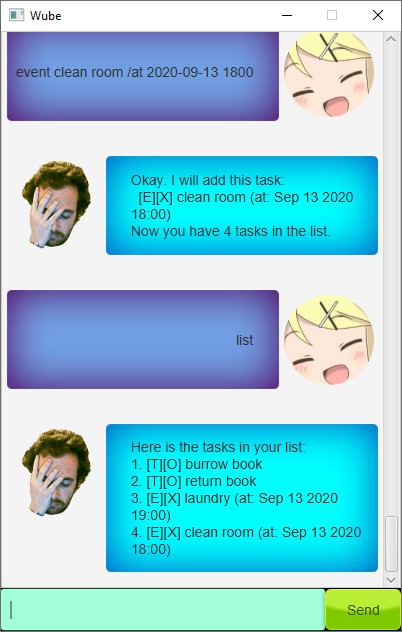
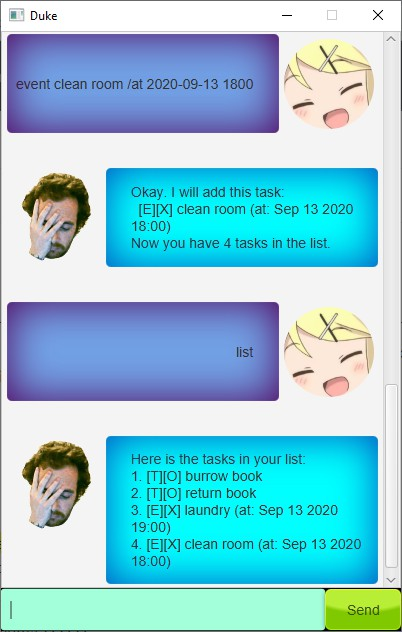
Fix some text bugs and change Ui.png

diff --git a/src/main/java/duke/Main.java b/src/main/java/duke/Main.java
@@ -24,7 +24,7 @@ public class Main extends Application {
             AnchorPane ap = fxmlLoader.load();
             Scene scene = new Scene(ap);
             stage.setScene(scene);
-            stage.setTitle("Wube");
+            stage.setTitle("Duke");
             fxmlLoader.<MainWindow>getController().setDuke(duke);
             stage.setResizable(false);
             stage.show();

diff --git a/src/main/java/duke/exception/RescheduleFormatException.java b/src/main/java/duke/exception/RescheduleFormatException.java
@@ -12,6 +12,6 @@ public class RescheduleFormatException extends DukeException {
      */
     public RescheduleFormatException() {
         super("Invalid argument or format! Please put it in the format of \"reschedule <task number> <date>\""
-                + "such as \"reschedule 1 2020-01-01!\"");
+                + " such as \"reschedule 1 2020-01-01!\"");
     }
 }

diff --git a/src/main/java/duke/exception/InvalidDateTimeFormatException.java b/src/main/java/duke/exception/InvalidDateTimeFormatException.java
@@ -13,6 +13,6 @@ public class InvalidDateTimeFormatException extends DukeException {
      */
     public InvalidDateTimeFormatException() {
         super("Invalid date format! Please put in something"
-                + "like 2020-12-31 1800 for 31 December 2020 6 pm.");
+                + " like 2020-12-31 1800 for 31 December 2020 6 pm.");
     }
 }

diff --git a/src/main/java/duke/utility/Ui.java b/src/main/java/duke/utility/Ui.java
@@ -37,7 +37,7 @@ public class Ui {
      * Welcomes the user when the user starts Duke.
      */
     public String welcome() {
-        return "Hi! My name is Wube.\nWhat do you want me to do?";
+        return "Hi! My name is Duke.\nWhat do you want me to do?";
     }
 
     /**

diff --git a/README.md b/README.md
@@ -17,10 +17,6 @@ Prerequisites: JDK 11, update Intellij to the most recent version.
    1. If there are any further prompts, accept the defaults.
 1. After the importing is complete, locate the `src/main/java/Duke.java` file, right-click it, and choose `Run Duke.main()`. If the setup is correct, you should see something like the below:
    ```
-   Hello from
-    ____        _        
-   |  _ \ _   _| | _____ 
-   | | | | | | | |/ / _ \
-   | |_| | |_| |   <  __/
-   |____/ \__,_|_|\_\___|
+Hi! My name is Wube.
+What do you want me to do?
    ```
